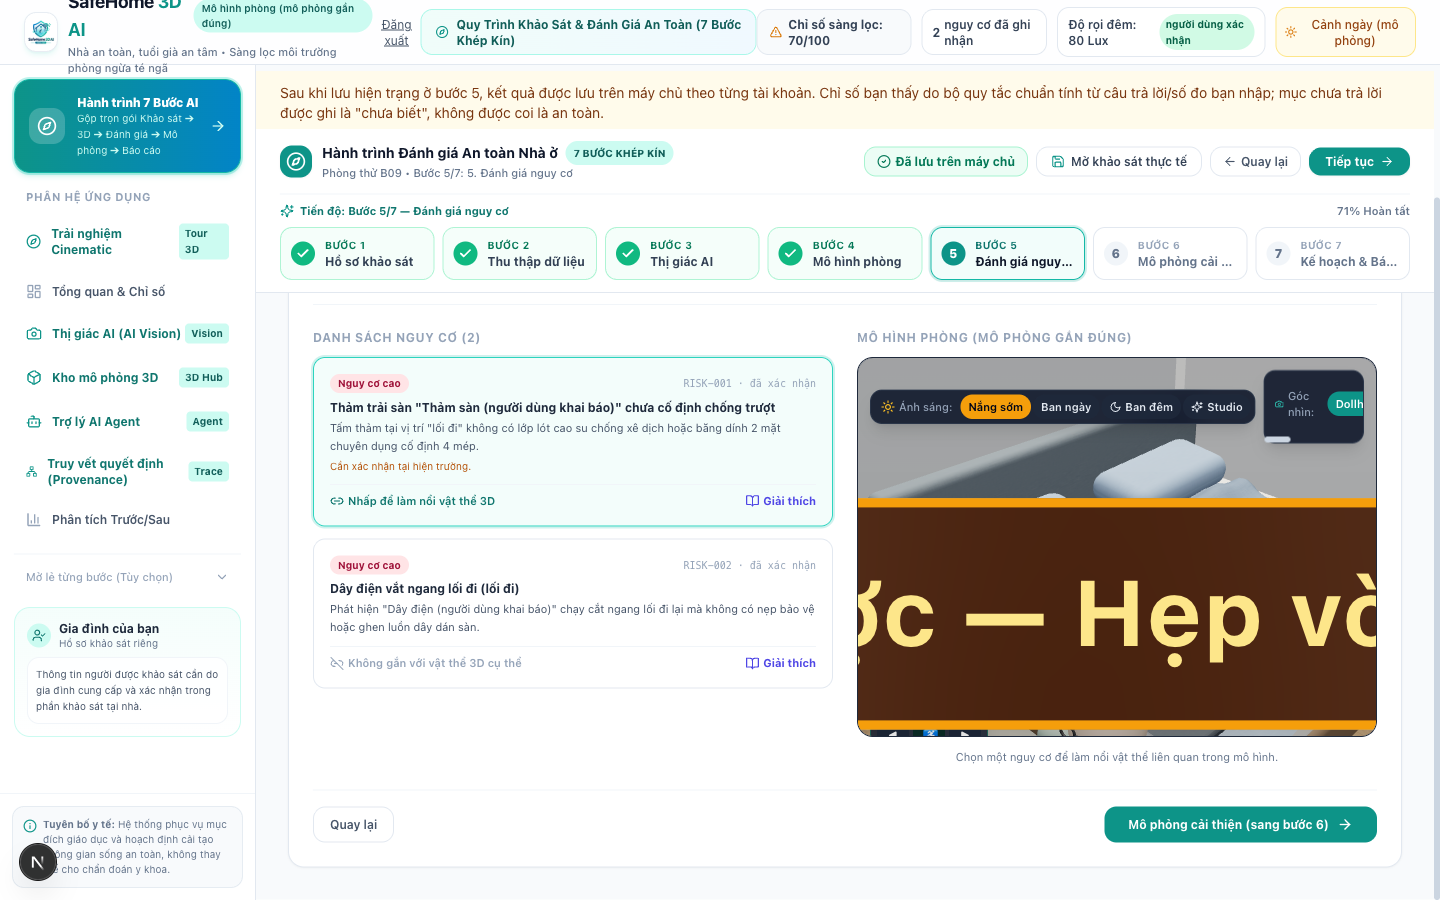
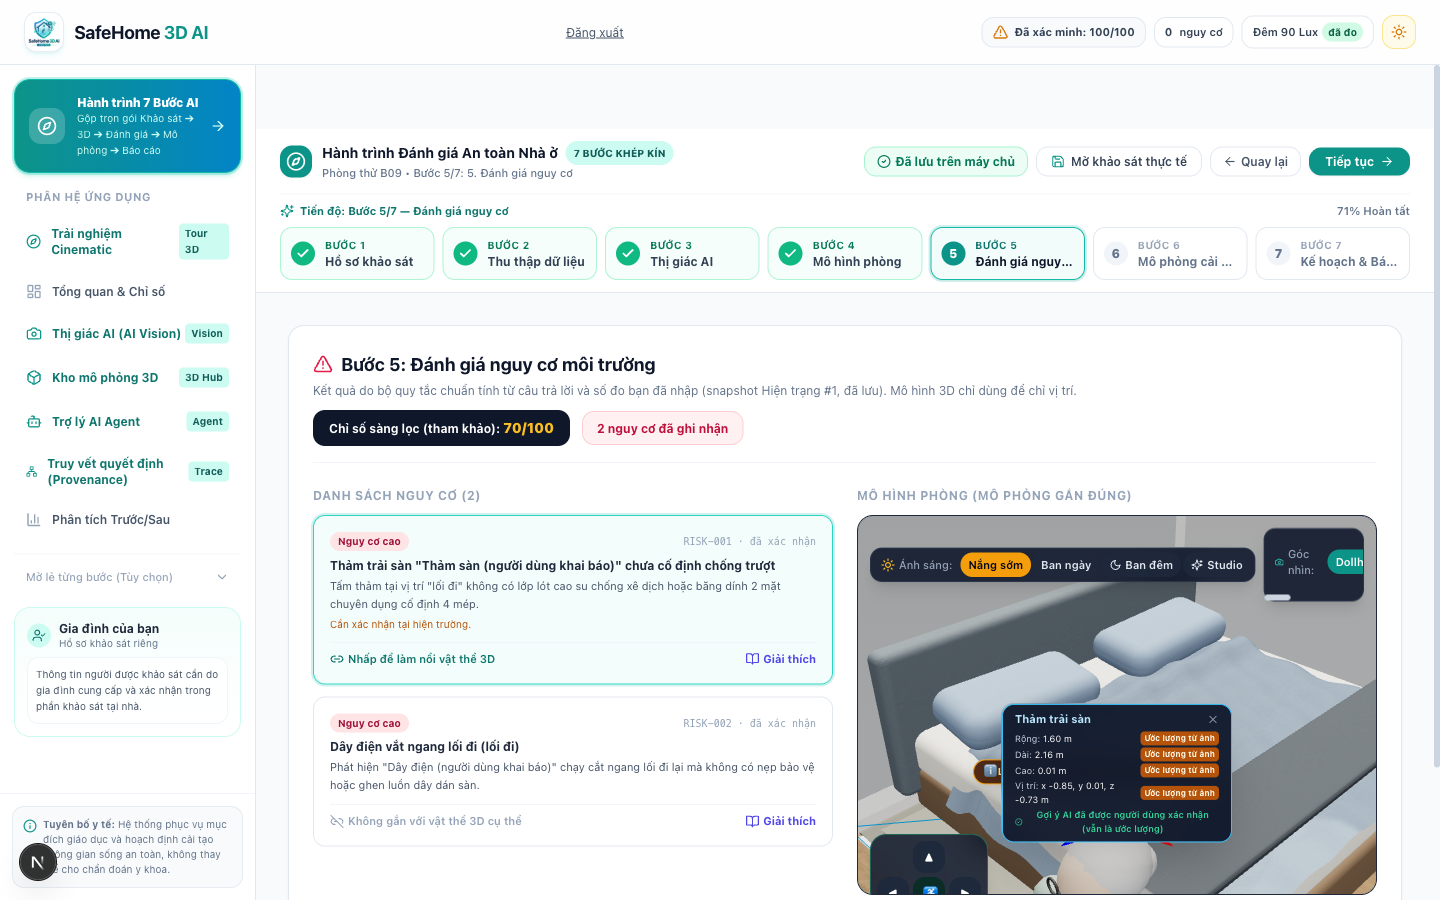
fix(header): never show simulated snapshot, label Hiện trạng/Đã xác minh, compact chips; fix focus label scaling

diff --git a/src/components/layout/AppHeader.tsx b/src/components/layout/AppHeader.tsx
@@ -61,21 +61,21 @@ export const AppHeader: React.FC = () => {
     <header className="sticky top-0 z-40 w-full border-b bg-white/90 backdrop-blur-md">
       <div className="flex h-16 items-center justify-between px-4 sm:px-6">
         {/* Brand */}
-        <div className="flex items-center space-x-3">
+        <div className="flex items-center space-x-3 shrink-0">
           <Link href="/dashboard" className="flex items-center space-x-2.5">
             <div className="flex h-10 w-10 items-center justify-center rounded-xl bg-white shadow-md shadow-teal-500/10 overflow-hidden border border-slate-200/80 p-0.5">
               <img src="/images/logo.png" alt="SafeHome 3D AI Logo" className="h-full w-full object-contain" />
             </div>
             <div>
               <div className="flex items-center gap-2">
-                <span className="text-lg font-bold tracking-tight text-slate-900">
+                <span className="text-lg font-bold tracking-tight text-slate-900 whitespace-nowrap">
                   SafeHome <span className="text-teal-600">3D AI</span>
                 </span>
-                <span className="rounded-full bg-teal-100 px-2 py-0.5 text-[10px] font-semibold text-teal-800">
+                <span className="hidden 2xl:inline rounded-full bg-teal-100 px-2 py-0.5 text-[10px] font-semibold text-teal-800 whitespace-nowrap">
                   Mô hình phòng (mô phỏng gần đúng)
                 </span>
               </div>
-              <p className="text-[11px] text-slate-500 font-medium hidden sm:block">
+              <p className="text-[11px] text-slate-500 font-medium hidden 2xl:block">
                 Nhà an toàn, tuổi già an tâm • Sàng lọc môi trường phòng ngừa té ngã
               </p>
             </div>
@@ -83,7 +83,7 @@ export const AppHeader: React.FC = () => {
         </div>
 
         {/* Center: Context-aware Navigation */}
-        <button className="text-xs text-slate-600 underline" onClick={async () => {
+        <button className="text-xs text-slate-600 underline whitespace-nowrap" onClick={async () => {
           const response = await fetch("/api/auth/logout", { method: "POST" });
           if (!response.ok) return;
           for (const key of Object.keys(localStorage)) if (key.startsWith("safehome:")) localStorage.removeItem(key);
@@ -91,7 +91,7 @@ export const AppHeader: React.FC = () => {
           window.location.assign("/sign-in");
         }}>Đăng xuất</button>
         {pathname === "/workflow" ? (
-          <div className="hidden md:flex items-center gap-2 px-3.5 py-1.5 rounded-xl bg-gradient-to-r from-teal-50 to-sky-50 border border-teal-200/80 text-teal-800 text-xs font-bold shadow-xs">
+          <div className="hidden 2xl:flex items-center gap-2 px-3.5 py-1.5 rounded-xl bg-gradient-to-r from-teal-50 to-sky-50 border border-teal-200/80 text-teal-800 text-xs font-bold shadow-xs">
             <Compass className="h-4 w-4 text-teal-600 animate-spin-slow" />
             <span>Quy Trình Khảo Sát &amp; Đánh Giá An Toàn (7 Bước Khép Kín)</span>
           </div>
@@ -107,29 +107,29 @@ export const AppHeader: React.FC = () => {
             <span>{isPhotoDraft ? "Bản dựng ước lượng — chưa đánh giá thực trạng" : isPhotoVision ? "Ảnh cần xác nhận tại nhà" : "Chưa đánh giá"}</span>
           </div>
         ) : (
-        <div className="flex items-center space-x-2.5" data-testid="header-status-assessed">
+        <div className="flex items-center gap-2 min-w-0" data-testid="header-status-assessed">
           <div
             className={cn(
-              "flex items-center gap-1.5 px-3 py-1.5 rounded-xl border text-xs font-bold",
+              "flex items-center gap-1.5 px-2.5 py-1.5 rounded-xl border text-[11px] font-bold whitespace-nowrap",
               status.unknownRules > 0 ? "bg-amber-50 text-amber-800 border-amber-200" : "bg-slate-50 text-slate-700 border-slate-200"
             )}
             title="Chỉ số sàng lọc môi trường tham khảo, không phải kết luận an toàn hay dự báo té ngã"
           >
             <AlertTriangle className="h-4 w-4 text-amber-600" />
             {status.screeningScore == null ? (
-              <span>Chưa thể đánh giá đầy đủ ({status.unknownRules} mục thiếu dữ liệu)</span>
+              <span>{status.stateLabel}: chưa đủ dữ liệu ({status.unknownRules} mục)</span>
             ) : (
-              <span>Chỉ số sàng lọc: {status.screeningScore}/100</span>
+              <span>{status.stateLabel}: {status.screeningScore}/100</span>
             )}
           </div>
 
-          <div className="flex items-center gap-1 px-2.5 py-1.5 rounded-xl border bg-white text-slate-700 border-slate-200 text-xs font-semibold">
-            <span className="font-bold">{status.hazards}</span> nguy cơ đã ghi nhận
+          <div className="flex items-center gap-1 px-2.5 py-1.5 rounded-xl border bg-white text-slate-700 border-slate-200 text-[11px] font-semibold whitespace-nowrap">
+            <span className="font-bold">{status.hazards}</span>&nbsp;nguy cơ
           </div>
 
           {status.lux ? (
-            <div className="flex items-center gap-1 px-2.5 py-1.5 rounded-xl border bg-white text-slate-700 border-slate-200 text-xs font-semibold">
-              <span>Độ rọi đêm: {status.lux.value} Lux</span>
+            <div className="flex items-center gap-1 px-2.5 py-1.5 rounded-xl border bg-white text-slate-700 border-slate-200 text-[11px] font-semibold whitespace-nowrap">
+              <span>Đêm {status.lux.value} Lux</span>
               <span
                 data-testid="header-lux-badge"
                 className={cn(
@@ -158,12 +158,12 @@ export const AppHeader: React.FC = () => {
             {isNightMode ? (
               <>
                 <Moon className="h-4 w-4 text-indigo-300" />
-                <span className="hidden xl:inline">Cảnh đêm (mô phỏng)</span>
+                <span className="hidden 2xl:inline">Cảnh đêm (mô phỏng)</span>
               </>
             ) : (
               <>
                 <Sun className="h-4 w-4 text-amber-600" />
-                <span className="hidden xl:inline">Cảnh ngày (mô phỏng)</span>
+                <span className="hidden 2xl:inline">Cảnh ngày (mô phỏng)</span>
               </>
             )}
           </button>

diff --git a/tests/workflowB09.test.tsx b/tests/workflowB09.test.tsx
@@ -3,7 +3,7 @@ import React from "react";
 import { renderToStaticMarkup } from "react-dom/server";
 import { evaluateRoomHazardsCanonical } from "@/lib/risk/ruleEngine";
 import { diffStoredSnapshots, type StoredRoomSnapshot } from "@/lib/risk/snapshotManager";
-import { deriveHeaderStatus } from "@/components/layout/headerStatus";
+import { deriveHeaderStatus, pickLatest } from "@/components/layout/headerStatus";
 import { createSnapshotClient } from "@/components/workflow/snapshotClient";
 import { buildComparisonView, buildStateCard, sanitizeClaim, safeWordingAllowed } from "@/components/workflow/reportGuard";
 import {
@@ -88,6 +88,24 @@ describe("B09 header: never shows sample numbers", () => {
     expect(get(mk("measured"))).toMatchObject({ source: "measured", label: "đã đo" });
     expect(get(mk("user_confirmed"))).toMatchObject({ source: "user_confirmed" });
     expect(get(mk("vision_estimated"))).toMatchObject({ label: "ước lượng AI" });
+  });
+});
+
+describe("B09 header never shows the simulated snapshot", () => {
+  const mk = (snapshotType: string, score: number, revision = 1, t = "2026-11-25T00:00:00.000Z") => ({
+    snapshotType, revision, createdAt: t, roomState: {}, provenanceMap: {},
+    canonicalAssessment: { findings: new Array(score === 70 ? 2 : 0).fill({}), heuristicSafetyScore: score, missingInputs: [] },
+  });
+  it("baseline 70 + proposed 100 (newer) -> header shows baseline 70 'Hiện trạng'", () => {
+    const st = deriveHeaderStatus(pickLatest([mk("BASELINE", 70, 1, "2026-11-25T01:00:00Z"), mk("PROPOSED_SCENARIO", 100, 1, "2026-11-25T02:00:00Z")]));
+    expect(st).toMatchObject({ kind: "assessed", stateLabel: "Hiện trạng", screeningScore: 70, hazards: 2 });
+  });
+  it("only proposed exists -> 'Chưa đánh giá'", () => {
+    expect(deriveHeaderStatus(pickLatest([mk("PROPOSED_SCENARIO", 100)]))).toEqual({ kind: "none", label: "Chưa đánh giá" });
+  });
+  it("with verified -> latest verified value labelled 'Đã xác minh'", () => {
+    const st = deriveHeaderStatus(pickLatest([mk("BASELINE", 70), mk("PROPOSED_SCENARIO", 100, 1, "2026-11-25T09:00:00Z"), mk("VERIFIED_POST_INTERVENTION", 90, 1), mk("VERIFIED_POST_INTERVENTION", 95, 2)]));
+    expect(st).toMatchObject({ stateLabel: "Đã xác minh", screeningScore: 95 });
   });
 });
 

diff --git a/src/components/layout/headerStatus.ts b/src/components/layout/headerStatus.ts
@@ -30,6 +30,8 @@ export type HeaderStatus =
   | {
       kind: "assessed";
       snapshotType: string;
+      /** Nhãn trạng thái đang hiển thị: "Hiện trạng" hoặc "Đã xác minh". */
+      stateLabel: string;
       hazards: number;
       unknownRules: number;
       /** null khi còn thiếu dữ liệu: không đưa điểm ra như một kết luận. */
@@ -47,6 +49,7 @@ export function deriveHeaderStatus(latest: HeaderSnapshotInput | null | undefine
   return {
     kind: "assessed",
     snapshotType: latest.snapshotType,
+    stateLabel: latest.snapshotType === "VERIFIED_POST_INTERVENTION" ? "Đã xác minh" : "Hiện trạng",
     hazards: a.findings.length,
     unknownRules: a.missingInputs.length,
     screeningScore: a.missingInputs.length === 0 ? a.heuristicSafetyScore : null,
@@ -54,7 +57,12 @@ export function deriveHeaderStatus(latest: HeaderSnapshotInput | null | undefine
   };
 }
 
-/** Snapshot mới nhất để hiển thị: VERIFIED > PROPOSED > BASELINE theo thứ tự thời gian lưu. */
-export function pickLatest<T extends { createdAt: string }>(snaps: T[]): T | null {
-  return snaps.length ? [...snaps].sort((x, y) => x.createdAt.localeCompare(y.createdAt)).at(-1)! : null;
+/**
+ * Snapshot header được phép hiển thị: VERIFIED_POST_INTERVENTION (bản mới nhất) nếu có, nếu không thì BASELINE.
+ * PROPOSED_SCENARIO (mô phỏng) KHÔNG BAO GIỜ được chọn.
+ */
+export function pickLatest<T extends { createdAt: string; snapshotType?: string; revision?: number }>(snaps: T[]): T | null {
+  const newest = (type: string) =>
+    snaps.filter((x) => x.snapshotType === type).sort((a, b) => (a.revision ?? 0) - (b.revision ?? 0) || a.createdAt.localeCompare(b.createdAt)).at(-1);
+  return newest("VERIFIED_POST_INTERVENTION") ?? newest("BASELINE") ?? null;
 }

diff --git a/src/components/three/WheelchairDriver.tsx b/src/components/three/WheelchairDriver.tsx
@@ -294,7 +294,8 @@ export const WheelchairDriver: React.FC<WheelchairDriverProps> = ({
       </mesh>
 
       {/* Live Ergonomic Clearance Badge */}
-      <Html position={[0, 1.52, 0]} center distanceFactor={10} className="pointer-events-none select-none">
+      {/* Không dùng distanceFactor: nhãn giữ kích thước cố định theo pixel, không phóng to khi camera focus gần. */}
+      <Html position={[0, 1.52, 0]} center zIndexRange={[10, 0]} className="pointer-events-none select-none">
         <div
           className={`px-2.5 py-1 rounded-full text-[10px] font-bold shadow-lg border whitespace-nowrap backdrop-blur-md ${
             blocked
